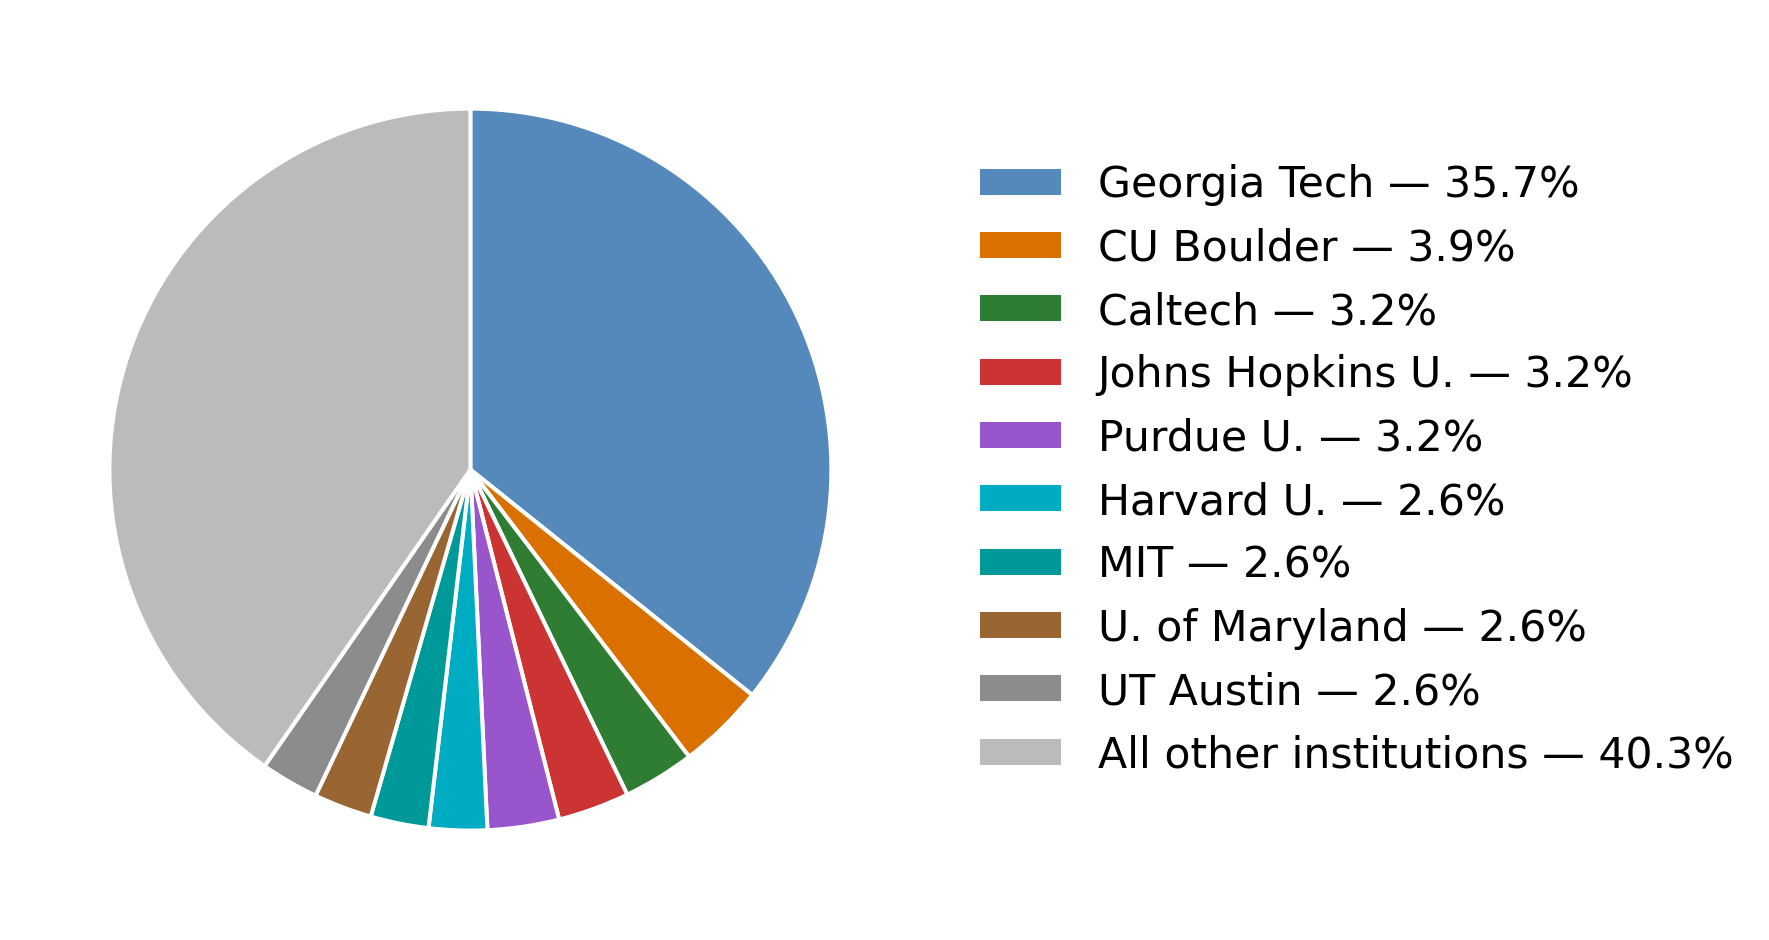
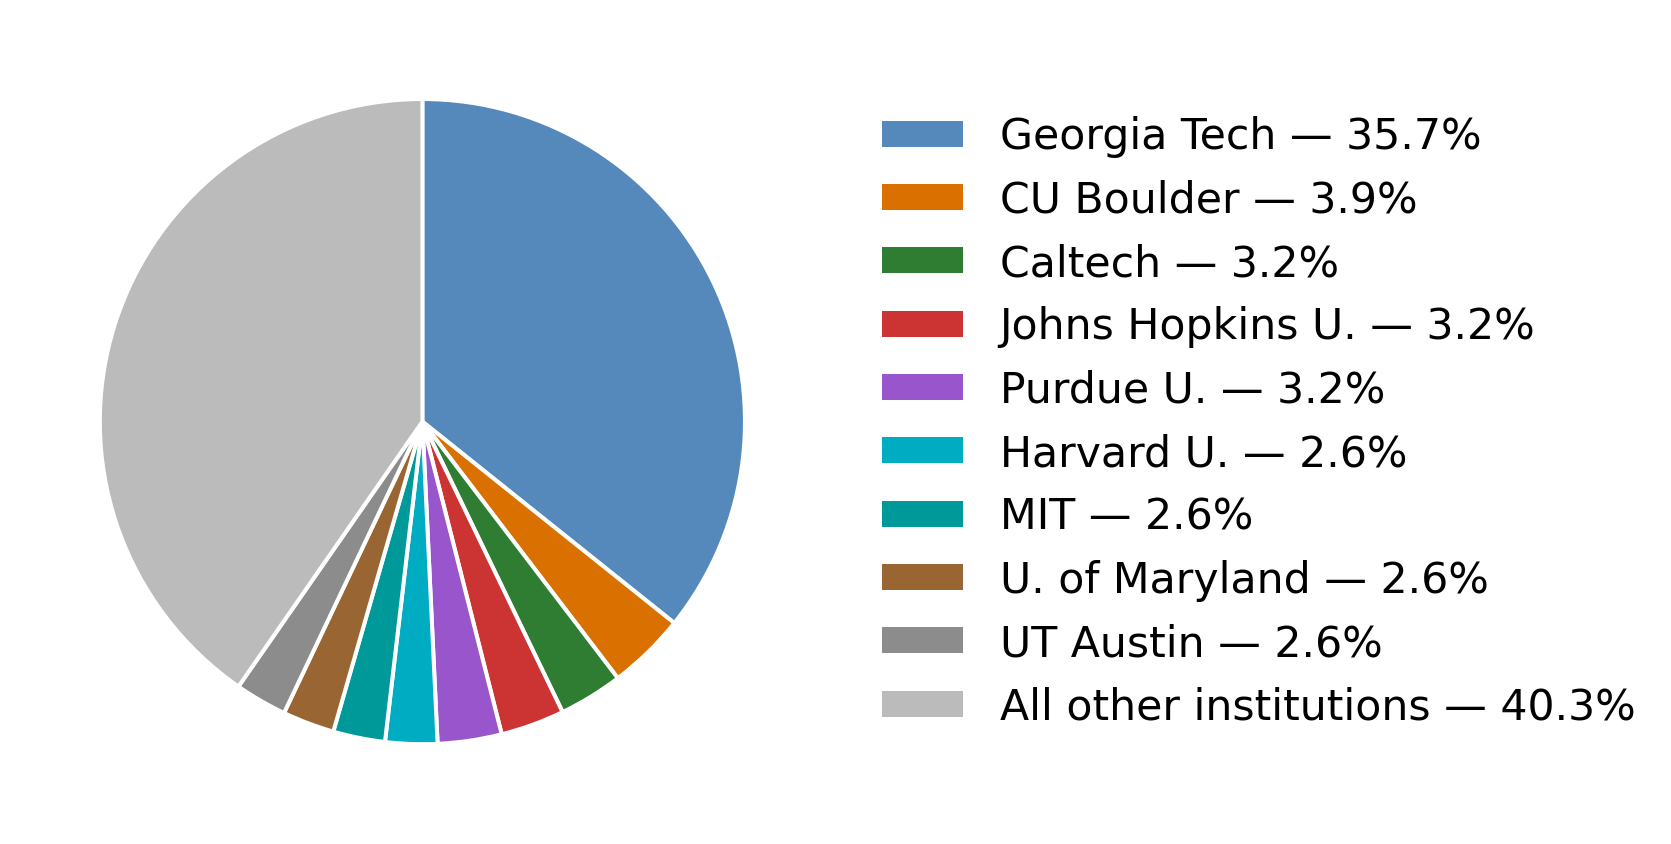
Built site for gh-pages

diff --git a/lectures/lecture-01.html b/lectures/lecture-01.html
@@ -52,7 +52,7 @@
     div.csl-indent {
       margin-left: 2em;
     }  </style>
-  <link rel="stylesheet" href="../site_libs/revealjs/dist/theme/quarto-e98bb53455d5529a271f052475a8ac5a.css">
+  <link rel="stylesheet" href="../site_libs/revealjs/dist/theme/quarto-ad237289f2554d9c2ffd99a5b206a107.css">
   <link href="../site_libs/revealjs/plugin/quarto-line-highlight/line-highlight.css" rel="stylesheet">
   <link href="../site_libs/revealjs/plugin/reveal-menu/menu.css" rel="stylesheet">
   <link href="../site_libs/revealjs/plugin/reveal-menu/quarto-menu.css" rel="stylesheet">
@@ -166,7 +166,7 @@ Andrew J. Steinmetz
 <section id="your-instructor" class="slide level2">
 <h2>Your Instructor</h2>
 <div class="columns">
-<div class="column" style="width:40%;">
+<div class="column" style="width:60%;">
 <p><strong>Dr.&nbsp;Andrew J. Steinmetz</strong></p>
 <p>School of Physics · Georgia Institute of Technology</p>
 <table class="caption-top">
@@ -177,7 +177,7 @@ Andrew J. Steinmetz
 </tr>
 <tr class="even">
 <td><strong>Office hours</strong></td>
-<td><a href="https://outlook.office.com/bookwithme/user/[email redacted]?anonymous&amp;ismsaljsauthenabled&amp;ep=plink">By appointment</a></td>
+<td><a href="https://outlook.office.com/bookwithme/user/[email redacted]?anonymous&amp;ismsaljsauthenabled&amp;ep=plink">By appointment (link)</a></td>
 </tr>
 <tr class="odd">
 <td><strong>Office</strong></td>
@@ -185,11 +185,14 @@ Andrew J. Steinmetz
 </tr>
 </tbody>
 </table>
-</div><div class="column" style="width:60%;">
+</div><div class="column" style="width:40%;">
 <div class="quarto-figure quarto-figure-center">
 <figure>
 <p><img data-src="figs/qr-code.jpg" class="quarto-figure quarto-figure-center" style="width:75.0%"></p>
 </figure>
+</div>
+<div class="cite-note">
+<p><a href="https://www.linkedin.com/in/ajsteinmetz/">https://www.linkedin.com/in/ajsteinmetz/</a></p>
 </div>
 </div></div>
 </section>
@@ -197,7 +200,8 @@ Andrew J. Steinmetz
 <h2>Welcome to PHYS 4604</h2>
 <div class="columns">
 <div class="column" style="width:70%;">
-<p>Over the semester, we will produce five real documents you can use immediately in job applications, graduate school applications, fellowship applications, and career fairs. E.g. this is stuff you’ll need to get good at anyway, might as well practice it now!</p>
+<p>Over the semester, we will produce five real documents you can use immediately in job applications, graduate school applications, fellowship applications, and career fairs.</p>
+<p>E.g. this is stuff you’ll need to get good at anyway, might as well practice it now!</p>
 <h3 id="course-websites">Course websites:</h3>
 <ul>
 <li><a href="https://canvas.gatech.edu/">https://canvas.gatech.edu/</a></li>
@@ -209,7 +213,7 @@ Andrew J. Steinmetz
 <p><img data-src="https://imgs.xkcd.com/comics/qualifications_2x.png" class="quarto-figure quarto-figure-center" style="width:100.0%"></p>
 </figure>
 </div>
-<div style="font-size: 0.5em; text-align: center; color: #555;">
+<div class="cite-note">
 <p><a href="https://xkcd.com/2756/">xkcd #2756 “Qualifications”</a> · <a href="https://creativecommons.org/licenses/by-nc/2.5/">CC BY-NC 2.5</a></p>
 </div>
 </div></div>
@@ -257,6 +261,19 @@ Andrew J. Steinmetz
 </tr>
 </tbody>
 </table>
+<div class="callout callout-note callout-titled callout-style-default">
+<div class="callout-body">
+<div class="callout-title">
+<div class="callout-icon-container">
+<i class="callout-icon"></i>
+</div>
+<p><strong>Note</strong></p>
+</div>
+<div class="callout-content">
+<p>The dates have been intentionally chosen to front-load the majority of the work during the first two-thirds of the semester.</p>
+</div>
+</div>
+</div>
 </section>
 <section id="course-policies-the-short-version" class="slide level2">
 <h2>Course Policies — The Short Version</h2>
@@ -272,33 +289,39 @@ Andrew J. Steinmetz
 <section id="part-i-what-do-i-do-with-my-degree" class="slide level2">
 <h2>Part I: What do I do with my degree?</h2>
 <p>Nationally, about half of B.S. Physics majors are employed 1-year post-graduation; the rest mostly go to graduate school.</p>
-<div style="font-size: 0.6em; text-align: left; color: #555; margin-top: 4px;">
-<p><span class="citation" data-cites="mulvey2025">(<a href="#/references" role="doc-biblioref" onclick="">Mulvey and Pold 2025</a>)</span></p>
-</div>
 <div class="quarto-figure quarto-figure-center">
 <figure>
 <p><img data-src="figs/fig1_bachelors-status.png" class="quarto-figure quarto-figure-center" style="width:80.0%"></p>
 </figure>
 </div>
+<div class="cite-note" style="margin-top: -0.5em;">
+<p><span class="citation" data-cites="mulvey2025">(<a href="#/references" role="doc-biblioref" onclick="">Mulvey and Pold 2025</a>)</span></p>
+</div>
 </section>
 <section id="b.s.-physics-employment-outcomes" class="slide level2">
 <h2>B.S. Physics: Employment Outcomes</h2>
-<div style="font-size: 0.6em; text-align: left; color: #555; margin-top: 4px;">
-<p><span class="citation" data-cites="mulvey2025">(<a href="#/references" role="doc-biblioref" onclick="">Mulvey and Pold 2025</a>)</span></p>
-</div>
+<div class="columns">
+<div class="column" style="width:50%;">
 <div class="quarto-figure quarto-figure-center">
 <figure>
-<p><img data-src="figs/fig2_bachelors-employment.png" class="quarto-figure quarto-figure-center" style="width:75.0%"></p>
+<p><img data-src="figs/fig2a_bachelors-employment.png" class="quarto-figure quarto-figure-center" style="width:100.0%"></p>
 </figure>
 </div>
-</section>
-<section id="gt-b.s.-physics-starting-salaries" class="slide level2">
-<h2>GT B.S. Physics: Starting Salaries</h2>
-<p>Reported initial median salaries range from $74,000 to $86,500 and are competitive or in excess of national trends reported by NACE.</p>
-<div style="font-size: 0.55em; text-align: left; color: #555; margin-top: 2px;">
-<p><span class="citation" data-cites="nace_winter nace_summer oae_gt">(<a href="#/references" role="doc-biblioref" onclick="">National Association of Colleges and Employers 2021-2026</a>, <a href="#/references" role="doc-biblioref" onclick="">2022-2025</a>; <a href="#/references" role="doc-biblioref" onclick="">Georgia Institute of Technology Office of Academic Effectiveness 2021-2025</a>)</span></p>
+<div class="cite-note" style="margin-top: -0.5em;">
+<p><span class="citation" data-cites="mulvey2025">(<a href="#/references" role="doc-biblioref" onclick="">Mulvey and Pold 2025</a>)</span></p>
 </div>
-<div id="7719ec85" class="cell" data-execution_count="1">
+</div><div class="column" style="width:50%;">
+<div class="quarto-figure quarto-figure-center">
+<figure>
+<p><img data-src="figs/fig2b_bachelors-employment.png" class="quarto-figure quarto-figure-center" style="width:100.0%"></p>
+</figure>
+</div>
+</div></div>
+</section>
+<section id="gatech-b.s.-physics-starting-salaries" class="slide level2">
+<h2>GaTech B.S. Physics: Starting Salaries</h2>
+<p>Reported initial median salaries range from $74,000 to $86,500 and are competitive or in excess of national trends reported by NACE.</p>
+<div id="3234c12c" class="cell" data-execution_count="1">
 <div class="cell-output cell-output-display">
 <div class="quarto-figure quarto-figure-center">
 <figure>
@@ -307,14 +330,14 @@ Andrew J. Steinmetz
 </div>
 </div>
 </div>
-</section>
-<section id="gt-b.s.-physics-graduate-school-acceptance" class="slide level2">
-<h2>GT B.S. Physics: Graduate School Acceptance</h2>
-<p>Most Georgia Tech B.S. Physics majors who intend to further their education are accepted into at least one graduate school by graduation.</p>
-<div style="font-size: 0.55em; text-align: left; color: #555; margin-top: 2px;">
-<p><span class="citation" data-cites="oae_gt">(<a href="#/references" role="doc-biblioref" onclick="">Georgia Institute of Technology Office of Academic Effectiveness 2021-2025</a>)</span></p>
+<div class="cite-note" style="margin-top: -0.5em;">
+<p><span class="citation" data-cites="nace_winter nace_summer oae_gt">(<a href="#/references" role="doc-biblioref" onclick="">National Association of Colleges and Employers 2021-2026</a>, <a href="#/references" role="doc-biblioref" onclick="">2022-2025</a>; <a href="#/references" role="doc-biblioref" onclick="">Georgia Institute of Technology Office of Academic Effectiveness 2021-2025</a>)</span></p>
 </div>
-<div id="16dae3a1" class="cell" data-execution_count="2">
+</section>
+<section id="gatech-b.s.-physics-graduate-acceptance" class="slide level2">
+<h2>GaTech B.S. Physics: Graduate Acceptance</h2>
+<p>Most Georgia Tech B.S. Physics majors who intend to further their education are accepted into at least one graduate school by graduation.</p>
+<div id="98195e5b" class="cell" data-execution_count="2">
 <div class="cell-output cell-output-display">
 <div class="quarto-figure quarto-figure-center">
 <figure>
@@ -323,21 +346,24 @@ Andrew J. Steinmetz
 </div>
 </div>
 </div>
-</section>
-<section id="gt-b.s.-physics-graduate-destinations" class="slide level2">
-<h2>GT B.S. Physics: Graduate Destinations</h2>
-<p>Georgia Tech B.S. Physics majors are accepted to a wide range of highly ranked institutions for graduate study.</p>
-<div style="font-size: 0.55em; text-align: left; color: #555; margin-top: 2px;">
-<p><span class="citation" data-cites="irp_gt2026">(<a href="#/references" role="doc-biblioref" onclick="">Georgia Institute of Technology Institutional Research and Planning 2026</a>)</span> — NSC data, B.S. Physics alumni graduating AY 2021–2025.</p>
+<div class="cite-note" style="margin-top: -0.5em;">
+<p><span class="citation" data-cites="oae_gt">(<a href="#/references" role="doc-biblioref" onclick="">Georgia Institute of Technology Office of Academic Effectiveness 2021-2025</a>)</span></p>
 </div>
-<div id="8f6abbb1" class="cell" data-execution_count="3">
+</section>
+<section id="gatech-b.s.-physics-graduate-destinations" class="slide level2">
+<h2>GaTech B.S. Physics: Graduate Destinations</h2>
+<p>Georgia Tech B.S. Physics majors are accepted to a wide range of highly ranked institutions for graduate study.</p>
+<div id="75805d04" class="cell" data-execution_count="3">
 <div class="cell-output cell-output-display">
 <div class="quarto-figure quarto-figure-center">
 <figure>
-<p><img data-src="lecture-01_files/figure-revealjs/cell-4-output-1.png" class="quarto-figure quarto-figure-center" width="885" height="470"></p>
+<p><img data-src="lecture-01_files/figure-revealjs/cell-4-output-1.png" class="quarto-figure quarto-figure-center" width="836" height="422"></p>
 </figure>
 </div>
 </div>
+</div>
+<div class="cite-note" style="margin-top: -0.5em;">
+<p><span class="citation" data-cites="irp_gt2026">(<a href="#/references" role="doc-biblioref" onclick="">Georgia Institute of Technology Institutional Research and Planning 2026</a>)</span></p>
 </div>
 </section>
 <section id="part-ii-september-career-fair-events" class="slide level2">

diff --git a/supplemental/peer-feedback.html b/supplemental/peer-feedback.html
@@ -212,10 +212,21 @@ div.csl-indent {
 
 <section id="why-peer-feedback-often-fails" class="level2" data-number="1">
 <h2 data-number="1" class="anchored" data-anchor-id="why-peer-feedback-often-fails"><span class="header-section-number">1</span> Why Peer Feedback Often Fails</h2>
-<div class="columns" style="gap: 2em;">
-<div class="column" style="width:60%;">
+<div class="columns">
+<div class="column" style="padding-right: 2em;">
 <p>The typical experience of peer feedback goes something like this: you trade papers with a classmate, quickly skim each other’s work, write “good introduction” and circle a few typos, and call it done. Nothing changes. Nobody learned anything.</p>
 <p>That version of peer review fails because the feedback is vague, generic, and not connected to what the document actually needs to do <span class="citation" data-cites="roberts2016">(<a href="#ref-roberts2016" role="doc-biblioref">Roberts 2016</a>)</span>. The goal here is feedback that the author can act on, from a reader who has thought seriously about the document.</p>
+</div><div class="column" style="width:30%;">
+<div class="quarto-figure quarto-figure-center">
+<figure class="figure">
+<p><img src="https://imgs.xkcd.com/comics/star_ratings.png" class="img-fluid quarto-figure quarto-figure-center figure-img" style="width:100.0%"></p>
+</figure>
+</div>
+<div style="text-align: center; color: #555;">
+<p><a href="https://xkcd.com/1098/">xkcd #1098 “Qualifications”</a> · <a href="https://creativecommons.org/licenses/by-nc/2.5/">CC BY-NC 2.5</a></p>
+</div>
+</div>
+</div>
 <div class="callout callout-style-default callout-important callout-titled">
 <div class="callout-header d-flex align-content-center">
 <div class="callout-icon-container">
@@ -227,17 +238,6 @@ Important
 </div>
 <div class="callout-body-container callout-body">
 <p>Peer feedback is a professional skill. In research, your labmates, collaborators, co-authors, and dissertation committee will all read and critique your work before it reaches a journal or grant panel.</p>
-</div>
-</div>
-</div><div class="column" style="padding-left: 2em;">
-<div class="quarto-figure quarto-figure-center">
-<figure class="figure">
-<p><img src="https://imgs.xkcd.com/comics/star_ratings.png" class="img-fluid quarto-figure quarto-figure-center figure-img" style="width:100.0%"></p>
-</figure>
-</div>
-<div style="text-align: center; color: #555;">
-<p><a href="https://xkcd.com/1098/">xkcd #1098 “Qualifications”</a> · <a href="https://creativecommons.org/licenses/by-nc/2.5/">CC BY-NC 2.5</a></p>
-</div>
 </div>
 </div>
 </section>